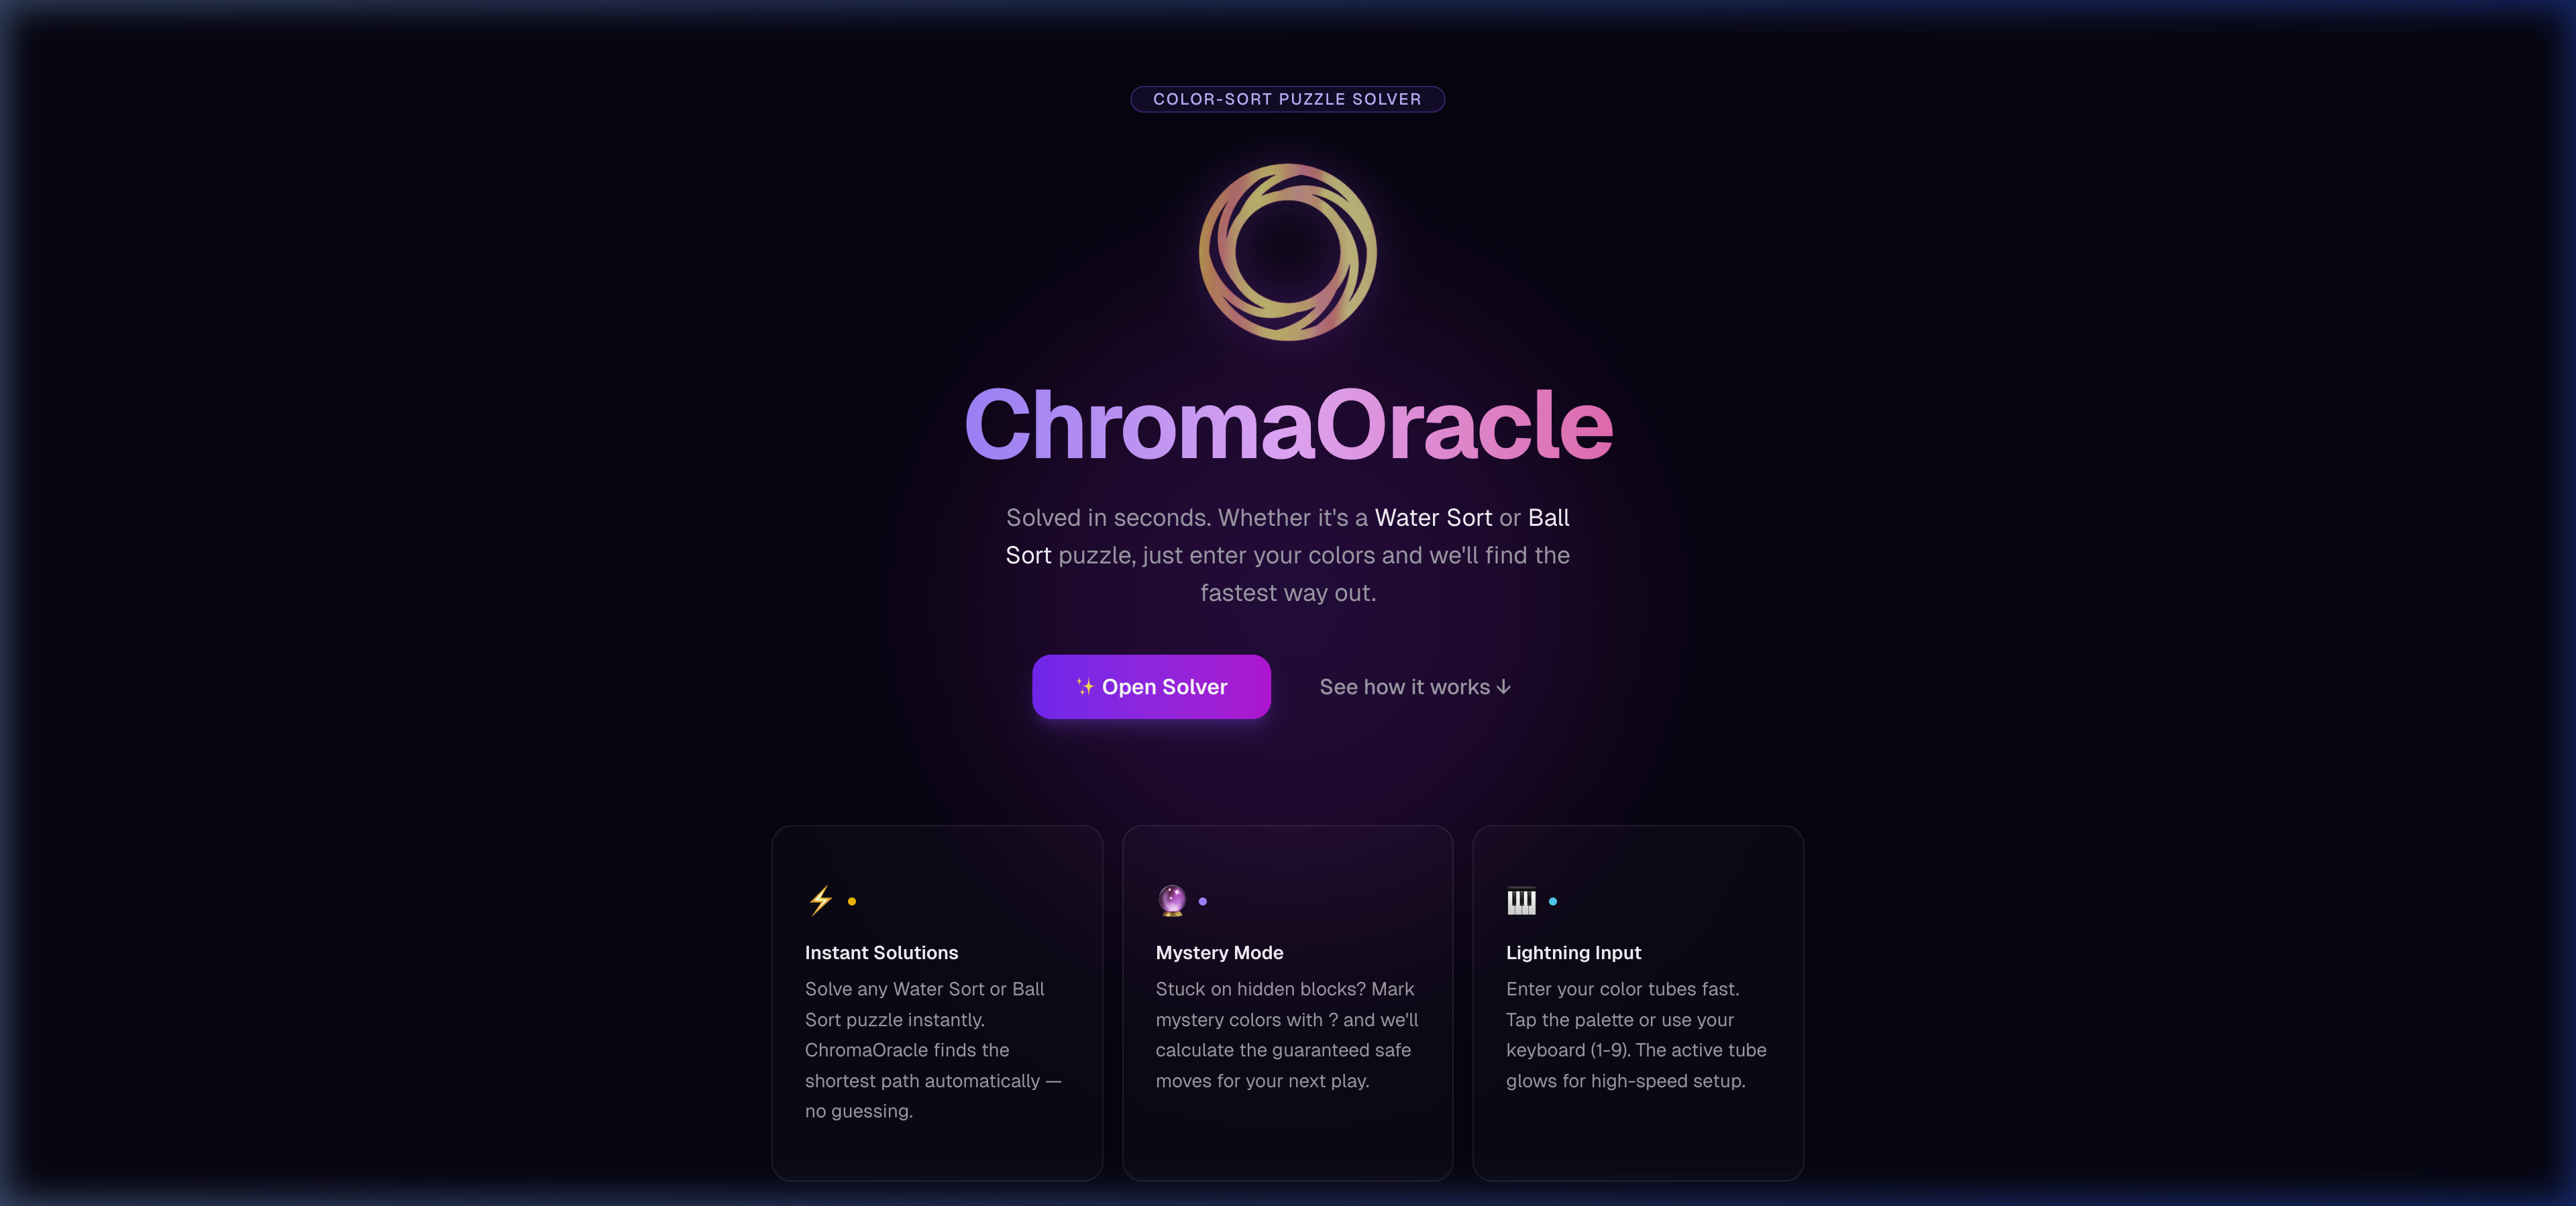
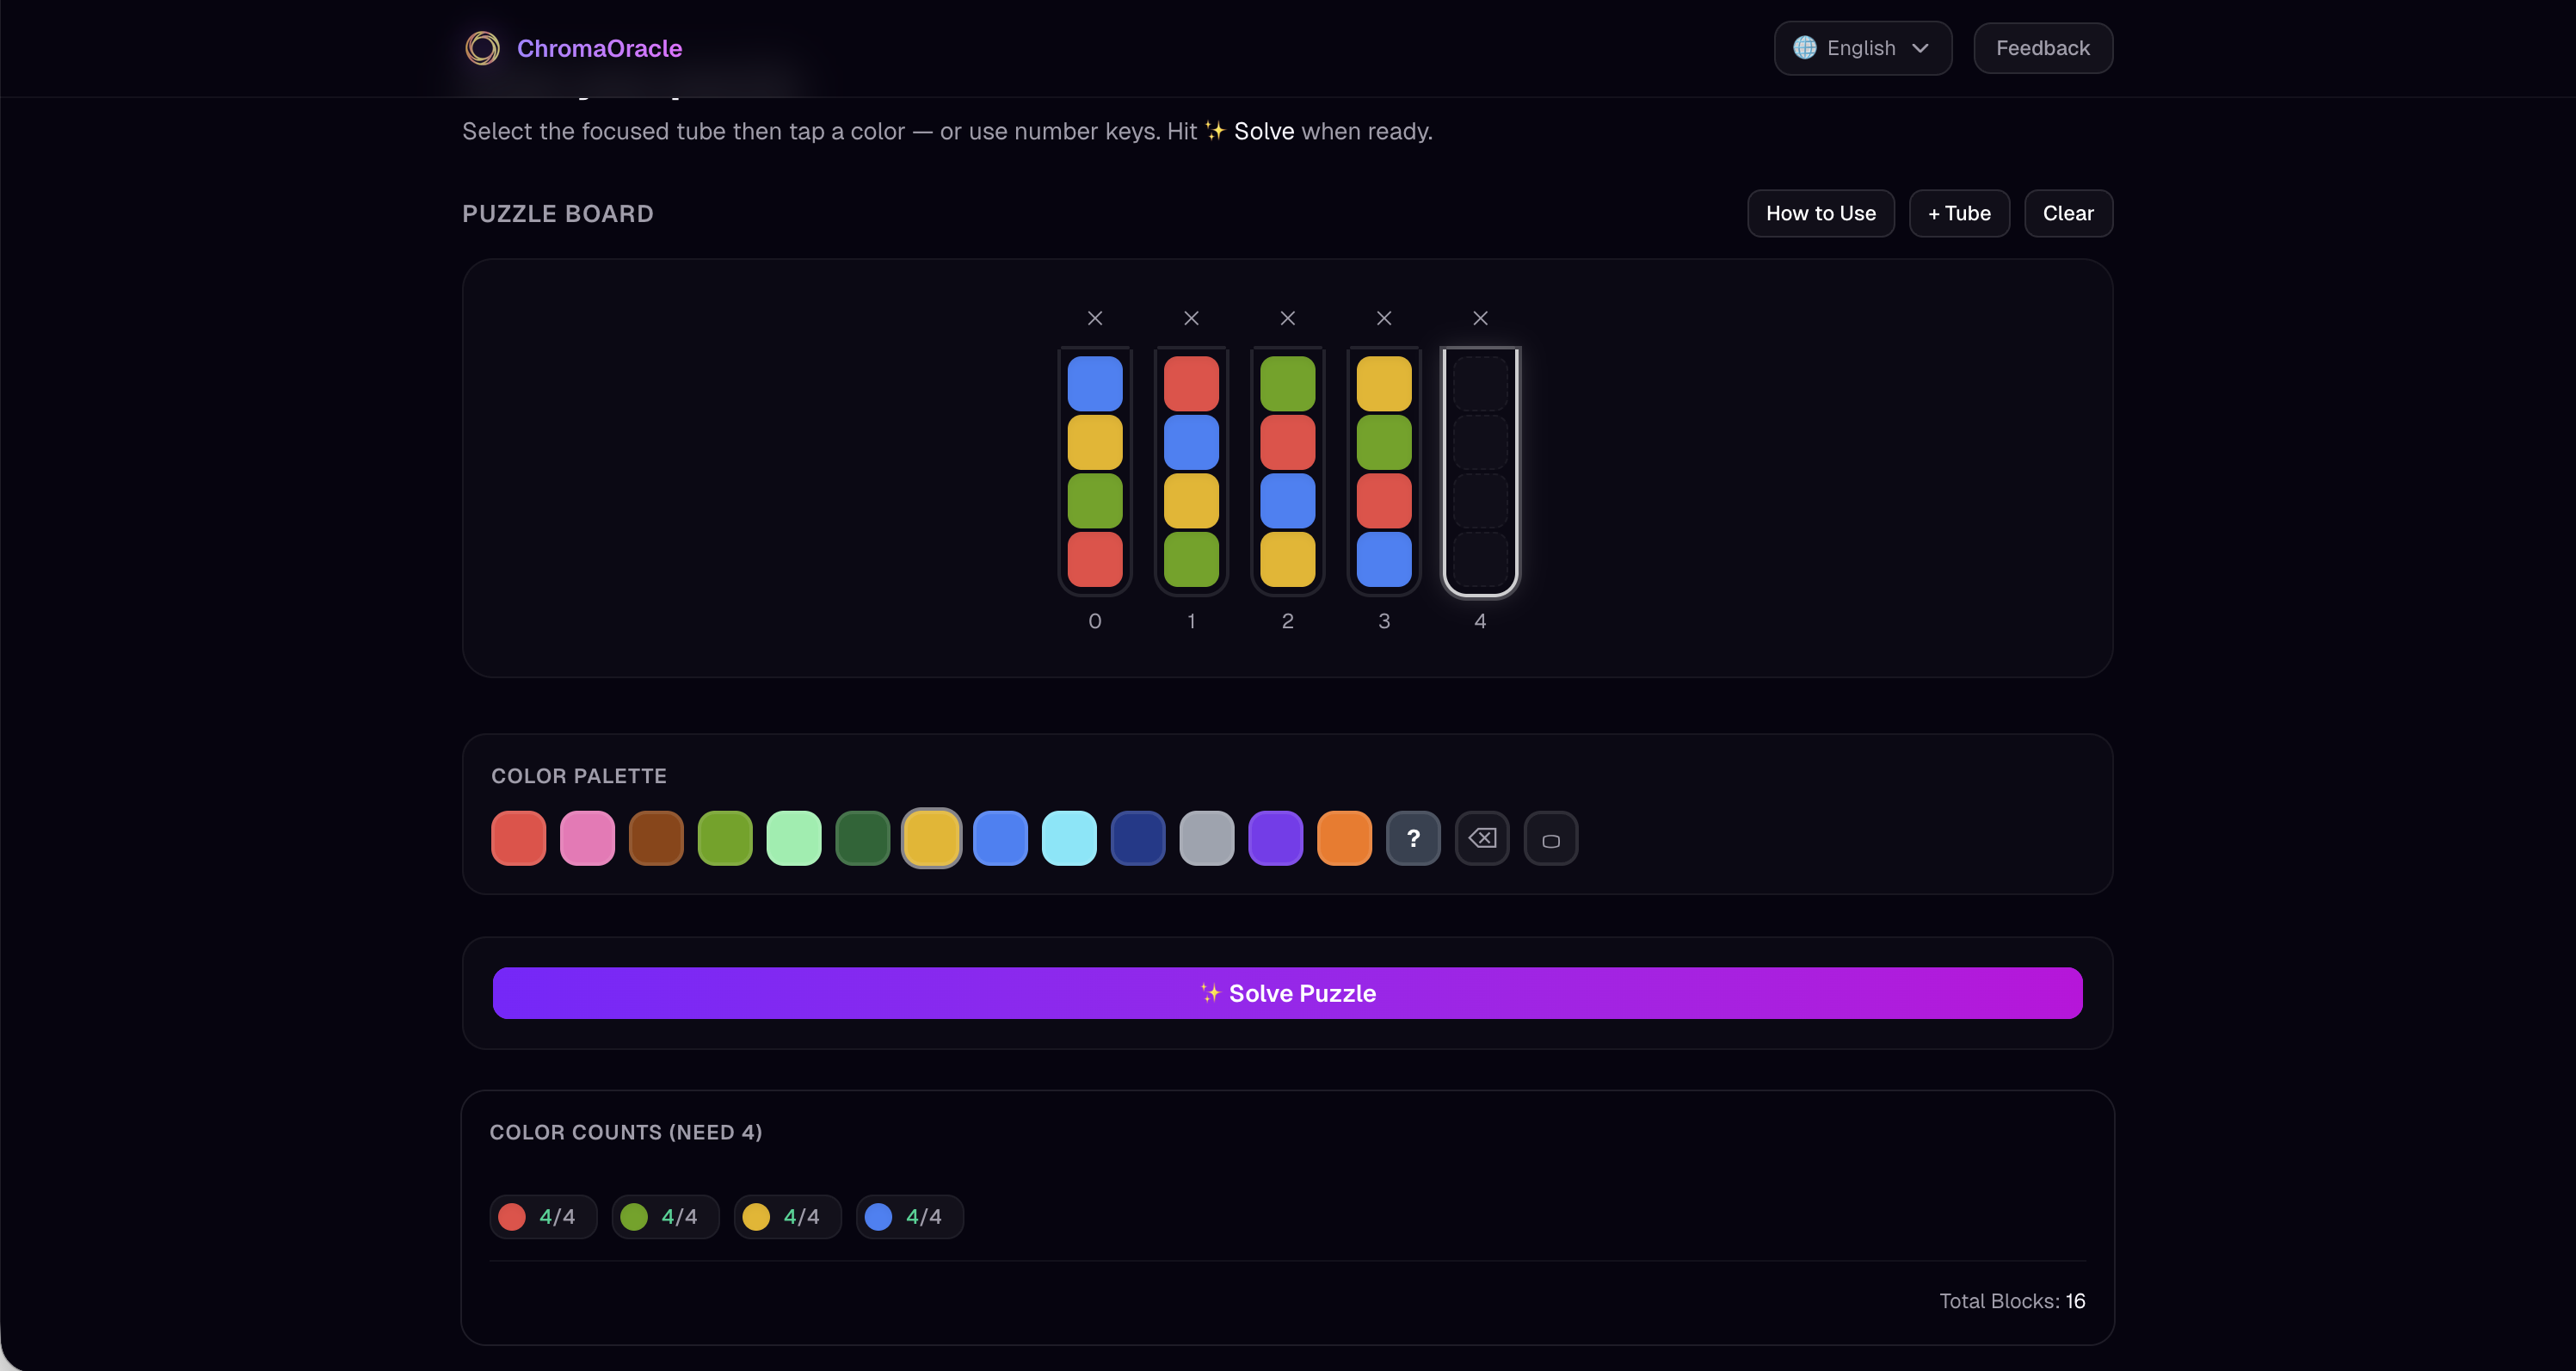
docs: update hero image and add project metadata

diff --git a/README.md b/README.md
@@ -1,14 +1,17 @@
 # ChromaOracle 🔮
+
+[![Version](https://img.shields.io/badge/version-2.1.0-orange)](https://github.com/lazyskyline7/chroma-oracle)
 [![Docker Pulls](https://img.shields.io/docker/pulls/lazyskyline/chroma-oracle)](https://hub.docker.com/repository/docker/lazyskyline/chroma-oracle)
 [![Tests](https://github.com/lazyskyline7/chroma-oracle/actions/workflows/tests.yml/badge.svg)](https://github.com/lazyskyline7/chroma-oracle/actions/workflows/tests.yml)
 [![Docker Publish](https://github.com/lazyskyline7/chroma-oracle/actions/workflows/docker-publish.yml/badge.svg)](https://github.com/lazyskyline7/chroma-oracle/actions/workflows/docker-publish.yml)
 [![ruff/mypy](https://img.shields.io/github/actions/workflow/status/lazyskyline7/chroma-oracle/tests.yml?label=ruff%2Fmypy%20checks)](https://github.com/lazyskyline7/chroma-oracle/actions/workflows/tests.yml)
+[![License: MIT](https://img.shields.io/badge/license-MIT-green)](LICENSE)
 
-**🌐 Play the web version now at [chromaoracle.com](https://chromaoracle.com)!**
+**🌐 Play the web version now at [chromaoracle.com](https://chromaoracle.com?utm_source=github&utm_medium=referral&utm_campaign==python_repo_readme)!**
 
-[![ChromaOracle Web Version](assets/hero.png)](https://chromaoracle.com)
+[![ChromaOracle Web Version](assets/hero.png)](https://chromaoracle.com?utm_source=github&utm_medium=referral&utm_campaign==python_repo_readme)
 
-CLI for solving colour sorting puzzles (Ball Sort, Water Sort, etc.) using BFS/DFS plus a mystery solver that infers hidden colours. Run it via `uv run chroma-oracle` or the Docker image below.
+ChromaOracle is a powerful solver for color sorting puzzles (Ball Sort, Water Sort, etc.) available as both a high-performance CLI and a modern web application. It uses BFS/DFS alongside a mystery solver to infer hidden colors. Run the CLI via `uv run chroma-oracle` or try the interactive web version.
 
 ## Quick start
 
@@ -47,8 +50,6 @@ Use `./scripts/docker-run.sh chroma-oracle ...` to mount your working tree into 
 - **Lightweight CLI:** Works via `pip`, `uv run`, or Docker with the same subcommands.
 - **Interactive strategy:** Step through guaranteed moves, reveal hidden colours, and update levels iteratively.
 
-![ChromaOracle Solver UI](assets/solver.png)
-
 ## Usage
 
 ### Solve known puzzles 🧩
@@ -76,24 +77,19 @@ chroma-oracle strategy -i levels/mystery.json
 
 ## CLI reference
 
-| Flag | Description |
-| --- | --- |
-| `-a, --algorithm [BFS|DFS]` | Select the search strategy (default: BFS). |
-| `--verbose` | Enable extra logging from BFS/DFS or strategy helpers. |
-| `-i, --interactive` | (strategy only) Run an interactive session that pauses between guaranteed moves. |
-| `--help` | Show the CLI help text. |
+| Flag                  | Description                                                                      |
+| --------------------- | -------------------------------------------------------------------------------- | ------------------------------------------ |
+| `-a, --algorithm [BFS | DFS]`                                                                            | Select the search strategy (default: BFS). |
+| `--verbose`           | Enable extra logging from BFS/DFS or strategy helpers.                           |
+| `-i, --interactive`   | (strategy only) Run an interactive session that pauses between guaranteed moves. |
+| `--help`              | Show the CLI help text.                                                          |
 
 ## Input format 📄
 
 Levels are JSON files where each container is a list of colours from **bottom to top**. Unknown colours are represented as `"?"` or `"UNKNOWN"`.
 
 ```json
-[
-  ["RED", "BLUE", "GREEN", "RED"],
-  ["BLUE", "RED", "GREEN", "UNKNOWN"],
-  [],
-  []
-]
+[["RED", "BLUE", "GREEN", "RED"], ["BLUE", "RED", "GREEN", "UNKNOWN"], [], []]
 ```
 
 Supported colours: `RED`, `PINK`, `BROWN`, `GREEN`, `LIGHT_GREEN`, `DARK_GREEN`, `YELLOW`, `BLUE`, `LIGHT_BLUE`, `DARK_BLUE`, `GREY`, `PURPLE`, `ORANGE`.